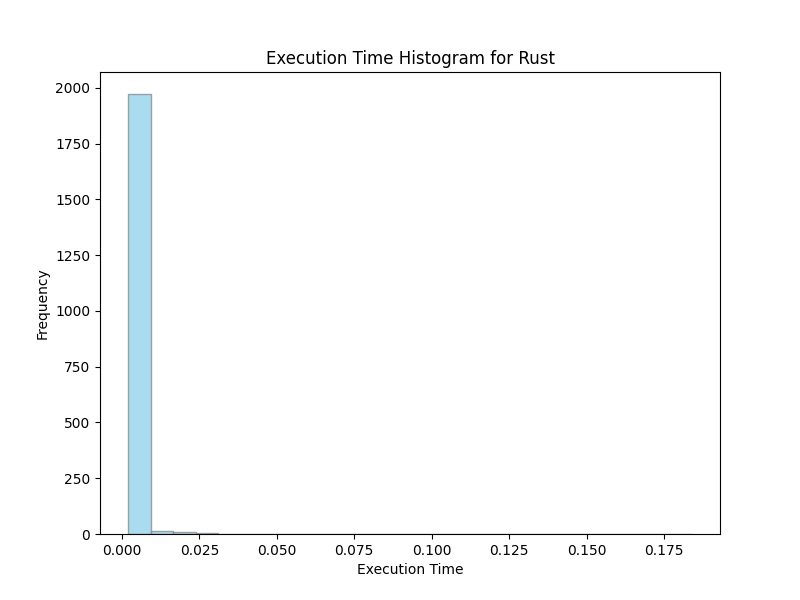
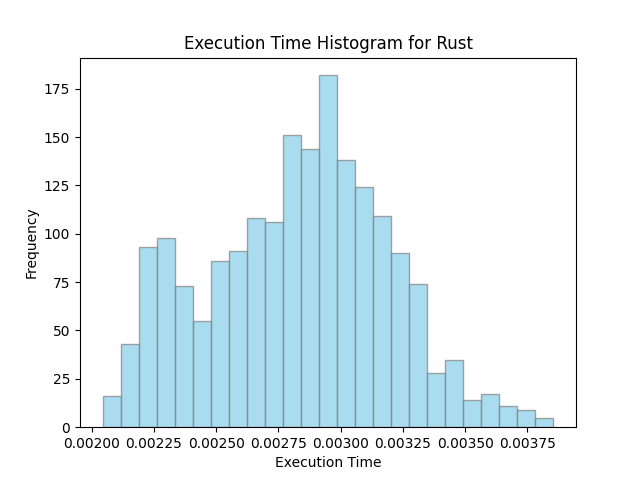
Improved histograms

diff --git a/stat_test_extended.py b/stat_test_extended.py
@@ -20,7 +20,9 @@ def main(in_directory):
     figure, axes = plt.subplots(1, len(languages), figsize=(15, 6))
     
     for idx, language in enumerate(languages):
-        axes[idx].hist(df[df['language'] == language]['time'], bins=25, edgecolor='grey', alpha=0.7)
+        language_times = df[df['language'] == language]
+        language_times = language_times[language_times['time'] < language_times['time'].quantile(0.95)]
+        axes[idx].hist(language_times['time'], bins=25, edgecolor='grey', alpha=0.7)
         axes[idx].set_title(language)
         axes[idx].set_xlabel('Execution Time')
         axes[idx].set_ylabel('Frequency')
@@ -29,8 +31,9 @@ def main(in_directory):
 
     # Individual histograms for each language
     for language in languages:
-        plt.figure(figsize=(8, 6))
-        plt.hist(df[df['language'] == language]['time'], bins=25, color='skyblue', edgecolor='grey', alpha=0.7)
+        language_times = df[df['language'] == language]
+        language_times = language_times[language_times['time'] < language_times['time'].quantile(0.95)]
+        plt.hist(language_times['time'], bins=25, color='skyblue', edgecolor='grey', alpha=0.7)
         plt.title(f'Execution Time Histogram for {language}')
         plt.xlabel('Execution Time')
         plt.ylabel('Frequency')
